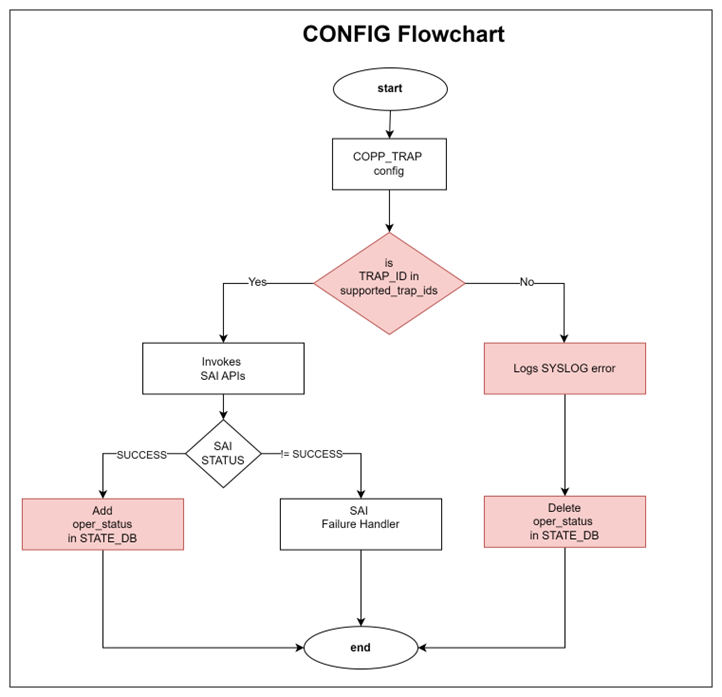
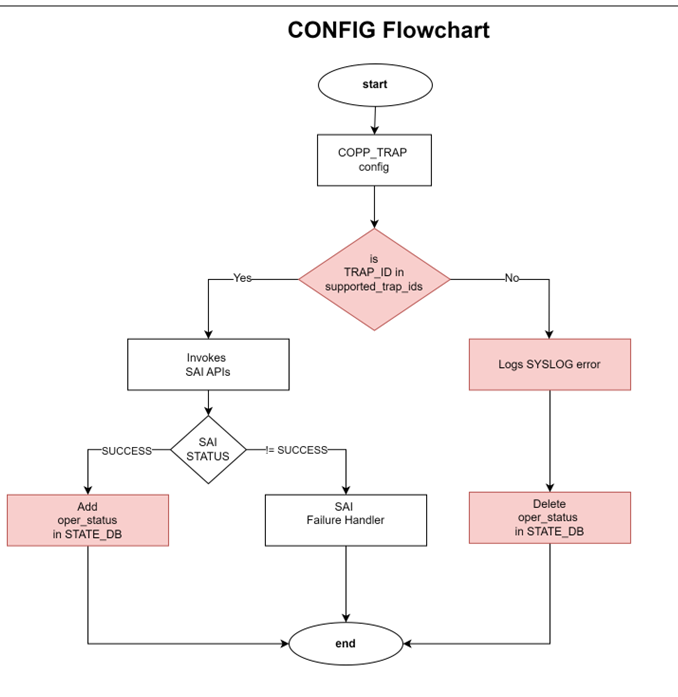
Updates
Fixed Problems/New Changes:

Should be Tested:

~

Changed region(s): [[0.0, 0.0, 0.9912, 0.9943], [0.2478, 0.7231, 0.2788, 0.7834]]

diff --git a/doc/copp/Copp_Neighbor_Miss_Trap_And_Enhancements.md b/doc/copp/Copp_Neighbor_Miss_Trap_And_Enhancements.md
@@ -10,8 +10,8 @@
 - [6. Architecture Design](#6-architecture-design)
 - [7. High-Level Design](#7-high-level-design)
   - [7.1 SWSS Design](#71-swss-design)
-  - [7.2 CoPP Trap WorkFlow](#72-copp-trap-workflow)
-  - [7.3 CoPP Default Configuration Changes](#73-copp-default-configuration-changes)
+  - [7.2 CoPP Init FlowChart](#72-copp-init-flowchart)
+  - [7.3 CoPP Config FlowChart](#73-copp-config-flowchart)
   - [7.4 Schema Changes](#74-schema-changes)
 - [8. SAI API](#8-sai-api)
 - [9. Yang Model](#9-yang-model)
